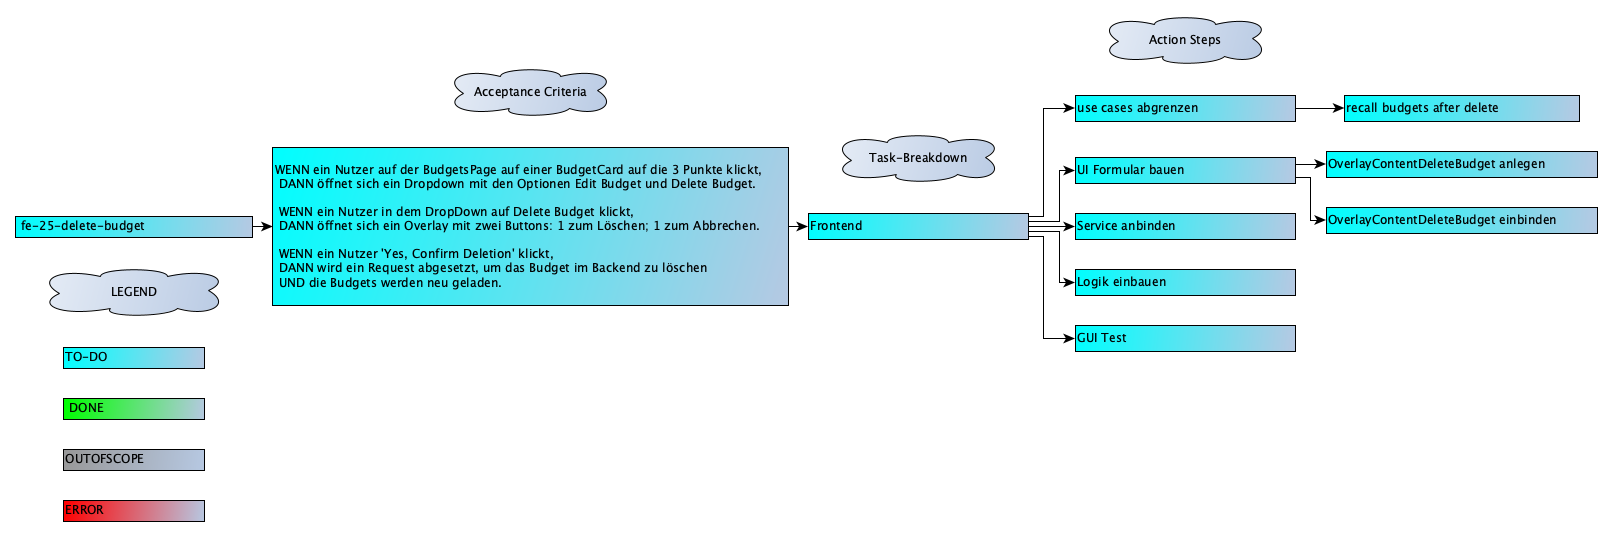
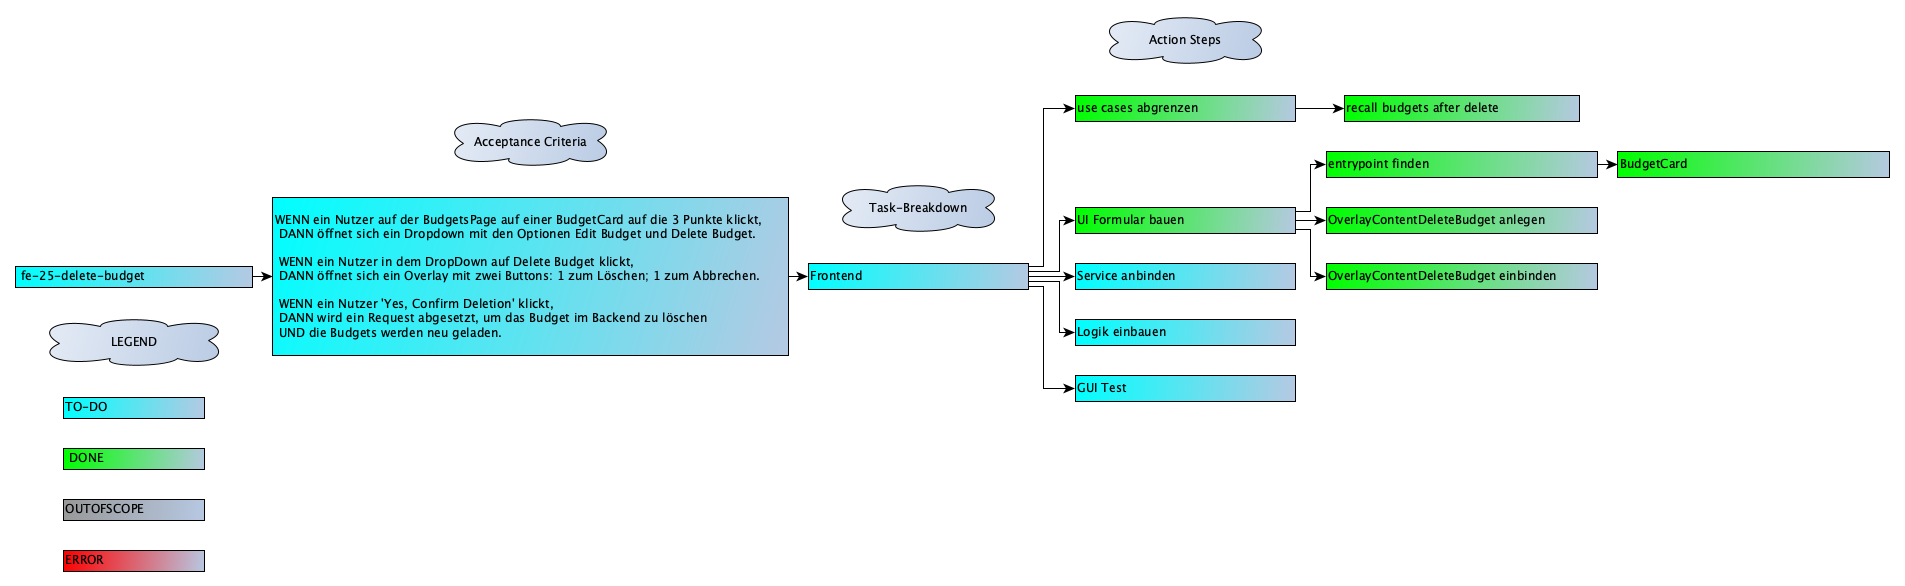
fe-25 create OverlayContentDeleteBudget

diff --git a/frontend/src/components/overlay/OverlayCardBox.spec.tsx b/frontend/src/components/overlay/OverlayCardBox.spec.tsx
@@ -1,6 +1,7 @@
 import { fireEvent, render, screen } from '@testing-library/react';
 import OverlayCardBox from './OverlayCardBox';
 import React from 'react';
+import { OverlayCardBoxButtonTypeEnum } from '../../model/enum/OverlayCardBoxButtonTypeEnum';
 
 describe('OverlayCardBox', () => {
   const title = 'testTitle';
@@ -11,6 +12,7 @@ describe('OverlayCardBox', () => {
   const mockOnClose = jest.fn();
   const children = <div data-testid="child-element"></div>;
   const isButtonDisabled = false;
+  const buttonType = OverlayCardBoxButtonTypeEnum.CONFIRM;
 
   const testProps = {
     title,
@@ -21,6 +23,7 @@ describe('OverlayCardBox', () => {
     onClose: mockOnClose,
     children,
     isButtonDisabled,
+    buttonType,
   };
 
   it('renders div overlayCardBox', async () => {
@@ -49,8 +52,14 @@ describe('OverlayCardBox', () => {
     expect(htmlElement).not.toHaveClass('isHidden');
   });
 
-  it('renders div overlayForm with class isHidden when passed prop isHidden is true', async () => {
-    const { container } = render(<OverlayCardBox {...testProps} isHidden={true} />);
+  it('renders div overlayForm with class isHidden when passed prop isHidden is true with passed prop buttonType', async () => {
+    const { container } = render(
+      <OverlayCardBox
+        {...testProps}
+        isHidden={true}
+        buttonType={OverlayCardBoxButtonTypeEnum.CONFIRM}
+      />
+    );
 
     const htmlElement = container.querySelector('.overlayForm');
 
@@ -60,6 +69,25 @@ describe('OverlayCardBox', () => {
     expect(htmlElement).toHaveAttribute('aria-labelledby', 'overlayTitle');
     expect(htmlElement).toHaveAttribute('aria-describedby', 'overlayDescription');
     expect(htmlElement).toHaveClass('isHidden');
+    expect(htmlElement).toHaveClass(OverlayCardBoxButtonTypeEnum.CONFIRM);
+  });
+
+  it('renders div overlayForm with passed prop buttonType === abort', async () => {
+    const { container } = render(
+      <OverlayCardBox {...testProps} buttonType={OverlayCardBoxButtonTypeEnum.ABORT} />
+    );
+
+    const htmlElement = container.querySelector('.overlayForm');
+
+    expect(htmlElement).toHaveClass(OverlayCardBoxButtonTypeEnum.ABORT);
+  });
+
+  it('renders div overlayForm with passed prop buttonType === undefined', async () => {
+    const { container } = render(<OverlayCardBox {...testProps} buttonType={undefined} />);
+
+    const htmlElement = container.querySelector('.overlayForm');
+
+    expect(htmlElement).toHaveClass(OverlayCardBoxButtonTypeEnum.CONFIRM);
   });
 
   it('renders div overlayForm without class isHidden when passed prop isHidden is false', async () => {
@@ -195,6 +223,23 @@ describe('OverlayCardBox', () => {
     expect(htmlElement).toHaveTextContent(submitText);
     expect(htmlElement).not.toHaveClass('disabled');
     expect(htmlElement).toHaveClass('isEnabled');
+  });
+
+  it('renders button overlayFormSubmit with passed props isButtonDisabled is true and buttonType', async () => {
+    const { container } = render(
+      <OverlayCardBox
+        {...testProps}
+        submitText={submitText}
+        isButtonDisabled={true}
+        buttonType={OverlayCardBoxButtonTypeEnum.CONFIRM}
+      />
+    );
+
+    const htmlElement = container.querySelector('.overlayFormSubmit');
+
+    expect(htmlElement).toHaveClass('disabled');
+    expect(htmlElement).toHaveClass(OverlayCardBoxButtonTypeEnum.CONFIRM);
+    expect(htmlElement).not.toHaveClass('isEnabled');
   });
 
   it('renders button overlayFormSubmit with passed prop isButtonDisabled is true', async () => {

diff --git a/frontend/src/components/budgets/BudgetCard/BudgetCard.tsx b/frontend/src/components/budgets/BudgetCard/BudgetCard.tsx
@@ -15,6 +15,8 @@ import OverlayContentEditBudget from '../../overlay/OverlayContentEditBudget';
 import useIsSmallScreen from '../../../globals/hooks/useIsSmallScreen';
 import getColorObject from '../../../globals/utils/getColorObject';
 import { editBudget } from '../../../globals/services/BudgetService';
+import OverlayContentDeleteBudget from '../../overlay/OverlayContentDeleteBudget';
+import { OverlayCardBoxButtonTypeEnum } from '../../../model/enum/OverlayCardBoxButtonTypeEnum';
 
 interface Props {
   transactions: EPTransaction[];
@@ -60,15 +62,20 @@ const BudgetCard: ({
   const isSmallScreen: boolean = useIsSmallScreen();
 
   const [isEditBudgetHidden, setIsEditBudgetHidden] = useState<boolean>(true);
+  const [isDeleteBudgetHidden, setIsDeleteBudgetHidden] = useState<boolean>(true);
   const handleSelection = (itemOperation: CardHeaderItemOperationEnum) => {
     if (itemOperation === CardHeaderItemOperationEnum.EDIT) {
       setIsEditBudgetHidden(false);
+    }
+    if (itemOperation === CardHeaderItemOperationEnum.DELETE) {
+      setIsDeleteBudgetHidden(false);
     }
   };
 
   const [hasFormToGetAReset, setHasFormToGetAReset] = useState<boolean>(false);
   const closeForm: () => void = (): void => {
     setIsEditBudgetHidden(true);
+    setIsDeleteBudgetHidden(true);
     const activeElement: Element | null = document.activeElement;
     if (activeElement instanceof HTMLElement) {
       activeElement.blur();
@@ -107,12 +114,22 @@ const BudgetCard: ({
     closeForm();
   };
 
+  const handleDeleteBudget = async (): Promise<void> => {
+    console.log('delete');
+    // await deleteBudget(budget);
+    await updatePage();
+    closeForm();
+  };
+
   const initialBudgetColorObject: Color = getColorObject(budget.color);
   const [selectedColorItem, setSelectedColorItem] = useState(initialBudgetColorObject);
   const propagateColorChange: (color: Color) => void = (color: Color): void => {
     setSelectedColorItem(color);
     setHasFormToGetAReset(false);
   };
+
+  const descriptionDeleteBudget: string =
+    'Are you sure you want to delete this budget? This action cannot be reversed, and all the data inside it will be removed forever.';
 
   return (
     <>
@@ -165,6 +182,17 @@ const BudgetCard: ({
               hasValidInput={hasValidInput}
               hasFormToGetAReset={hasFormToGetAReset}
             />
+          </OverlayCardBox>
+          <OverlayCardBox
+            title={`Delete '${budget.category}'`}
+            description={descriptionDeleteBudget}
+            submitText="No, Go Back"
+            isHidden={isDeleteBudgetHidden}
+            handleEvent={closeForm}
+            onClose={closeForm}
+            buttonType={OverlayCardBoxButtonTypeEnum.ABORT}
+          >
+            <OverlayContentDeleteBudget handleClick={handleDeleteBudget} />
           </OverlayCardBox>
         </div>
       )}

diff --git a/frontend/src/components/overlay/OverlayCardBox.tsx b/frontend/src/components/overlay/OverlayCardBox.tsx
@@ -1,6 +1,7 @@
 import './OverlayCardBox.scss';
 import { createFocusTrap } from 'focus-trap';
 import React, { ReactNode, useEffect, useRef } from 'react';
+import { OverlayCardBoxButtonTypeEnum } from '../../model/enum/OverlayCardBoxButtonTypeEnum';
 
 interface Props {
   title: string;
@@ -11,6 +12,7 @@ interface Props {
   onClose: () => void;
   children: React.ReactNode;
   isButtonDisabled?: boolean;
+  buttonType?: OverlayCardBoxButtonTypeEnum;
 }
 
 const OverlayCardBox: ({
@@ -22,6 +24,7 @@ const OverlayCardBox: ({
   onClose,
   children,
   isButtonDisabled,
+  buttonType,
 }: Props) => ReactNode = ({
   title,
   description,
@@ -31,6 +34,7 @@ const OverlayCardBox: ({
   onClose,
   children,
   isButtonDisabled = false,
+  buttonType = OverlayCardBoxButtonTypeEnum.CONFIRM,
 }: Props): ReactNode => {
   const overlayRef: React.RefObject<HTMLDivElement> = useRef<HTMLDivElement>(null);
 
@@ -66,7 +70,7 @@ const OverlayCardBox: ({
       <div className={`overlayBackground ${isHidden ? 'isHidden' : ''}`}></div>
       <div
         ref={overlayRef}
-        className={`overlayForm ${isHidden ? 'isHidden' : ''}`}
+        className={`overlayForm ${isHidden ? 'isHidden' : ''} ${buttonType}`}
         role="dialog"
         aria-hidden={isHidden}
         aria-labelledby="overlayTitle"
@@ -94,7 +98,7 @@ const OverlayCardBox: ({
           className={`overlayFormSubmitContainer ${isButtonDisabled ? 'disabled' : 'isEnabled'}`}
         >
           <button
-            className={`overlayFormSubmit ${isButtonDisabled ? 'disabled' : 'isEnabled'}`}
+            className={`overlayFormSubmit ${isButtonDisabled ? 'disabled' : 'isEnabled'} ${buttonType}`}
             onClick={handleSubmit}
             tabIndex={isButtonDisabled ? -1 : 0}
           >

diff --git a/frontend/src/components/overlay/OverlayCardBox.scss b/frontend/src/components/overlay/OverlayCardBox.scss
@@ -38,6 +38,9 @@
 .overlayForm.isHidden {
   display: none;
 }
+.overlayForm.abort {
+  padding-bottom: 16px;
+}
 
 .overlayFormContent {
   display: flex;
@@ -88,15 +91,17 @@
   color: var(--text-white);
   cursor: pointer;
 }
-.overlayFormSubmit.isEnabled:hover {
+.overlayFormSubmit.isEnabled:hover, .overlayFormSubmit.abort:hover {
   background-color: var(--component-background-grey);
   transition: background-color 0.1s ease;
+  color: var(--text-white);
 }
-.overlayFormSubmit.isEnabled:focus-visible {
+.overlayFormSubmit.isEnabled:focus-visible, .overlayFormSubmit.abort:focus-visible {
   border: 2px solid var(--text-dark);
   padding: 14px;
   background-color: var(--component-background-grey);
   transition: background-color 0.1s ease;
+  color: var(--text-white);
   outline: none;
 }
 .overlayFormSubmit.disabled {
@@ -104,6 +109,11 @@
   background-color: var(--component-background-disabled);
   color: var(--text-grey);
   pointer-events: none;
+}
+.overlayFormSubmit.abort {
+  background-color: transparent;
+  font-weight: 500;
+  color: var(--text-grey);
 }
 
 .overlayFormSubmitContainer.disabled {

diff --git a/frontend/src/components/overlay/OverlayContentDeleteBudget.spec.tsx b/frontend/src/components/overlay/OverlayContentDeleteBudget.spec.tsx
@@ -1,0 +1,28 @@
+import { fireEvent, render } from '@testing-library/react';
+import OverlayContentDeleteBudget from './OverlayContentDeleteBudget';
+
+describe('OverlayContentDeleteBudget', () => {
+  const mockHandleClick = jest.fn();
+
+  const testProps = {
+    handleClick: mockHandleClick,
+  };
+
+  it('renders button overlayContentDeleteBudget with correct text', () => {
+    const { container } = render(<OverlayContentDeleteBudget {...testProps} />);
+
+    const button = container.querySelector('.overlayContentDeleteBudget');
+
+    expect(button).toBeInTheDocument();
+    expect(button!.innerHTML).toEqual('Yes, Confirm Deletion');
+  });
+
+  it('calls handleCLick when button overlayContentDeleteBudget is clicked', () => {
+    const { container } = render(<OverlayContentDeleteBudget {...testProps} />);
+
+    const button = container.querySelector('.overlayContentDeleteBudget');
+    fireEvent.click(button!);
+
+    expect(mockHandleClick).toHaveBeenCalledTimes(1);
+  });
+});

diff --git a/frontend/src/components/overlay/OverlayContentDeleteBudget.scss b/frontend/src/components/overlay/OverlayContentDeleteBudget.scss
@@ -1,0 +1,23 @@
+.overlayContentDeleteBudget {
+  margin-bottom: 8px;
+  border: 0;
+  border-radius: 8px;
+  background-color: var(--red);
+  padding: 16px;
+  font-weight: 600;
+  color: var(--text-white);
+  cursor: pointer;
+}
+.overlayContentDeleteBudget:hover {
+  background-color: var(--component-background-grey);
+  transition: background-color 0.1s ease;
+  color: var(--text-white);
+}
+.overlayContentDeleteBudget:focus-visible {
+  border: 2px solid var(--text-dark);
+  padding: 14px;
+  background-color: var(--component-background-grey);
+  transition: background-color 0.1s ease;
+  color: var(--text-white);
+  outline: none;
+}

diff --git a/frontend/src/components/overlay/OverlayContentDeleteBudget.tsx b/frontend/src/components/overlay/OverlayContentDeleteBudget.tsx
@@ -1,0 +1,21 @@
+import './OverlayContentDeleteBudget.scss';
+
+interface Props {
+  handleClick: () => void;
+}
+
+const OverlayContentDeleteBudget = ({ handleClick }: Props) => {
+  const buttonText: string = 'Yes, Confirm Deletion';
+
+  return (
+    <button
+      className="overlayContentDeleteBudget"
+      data-testid="overlay-content-delete-budget"
+      onClick={handleClick}
+    >
+      {buttonText}
+    </button>
+  );
+};
+
+export default OverlayContentDeleteBudget;

diff --git a/frontend/src/model/enum/OverlayCardBoxButtonTypeEnum.ts b/frontend/src/model/enum/OverlayCardBoxButtonTypeEnum.ts
@@ -1,0 +1,4 @@
+export enum OverlayCardBoxButtonTypeEnum {
+  CONFIRM = 'confirm',
+  ABORT = 'abort',
+}
